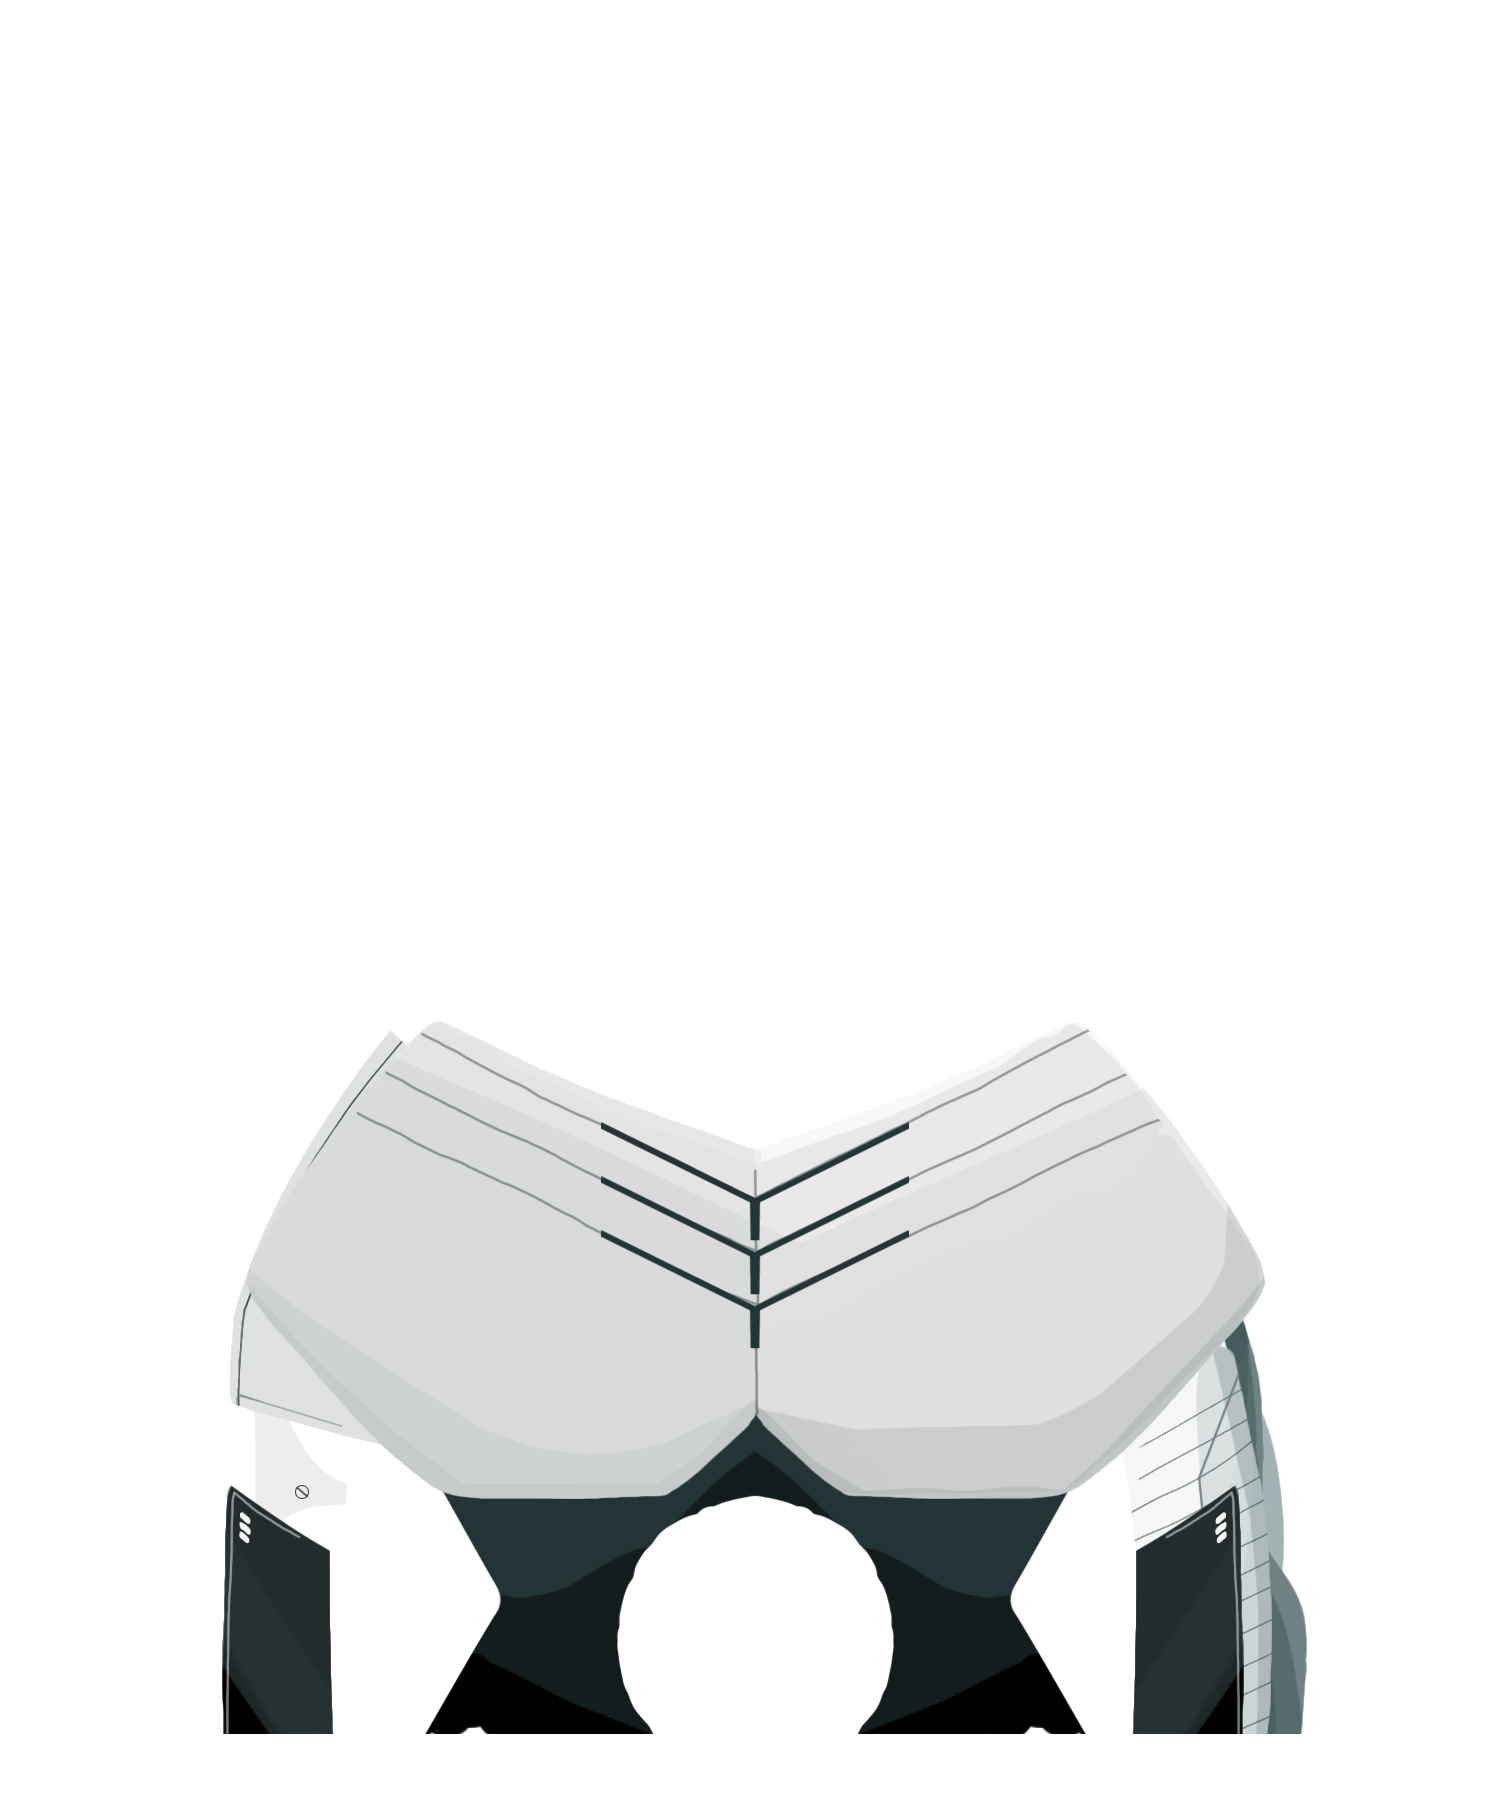
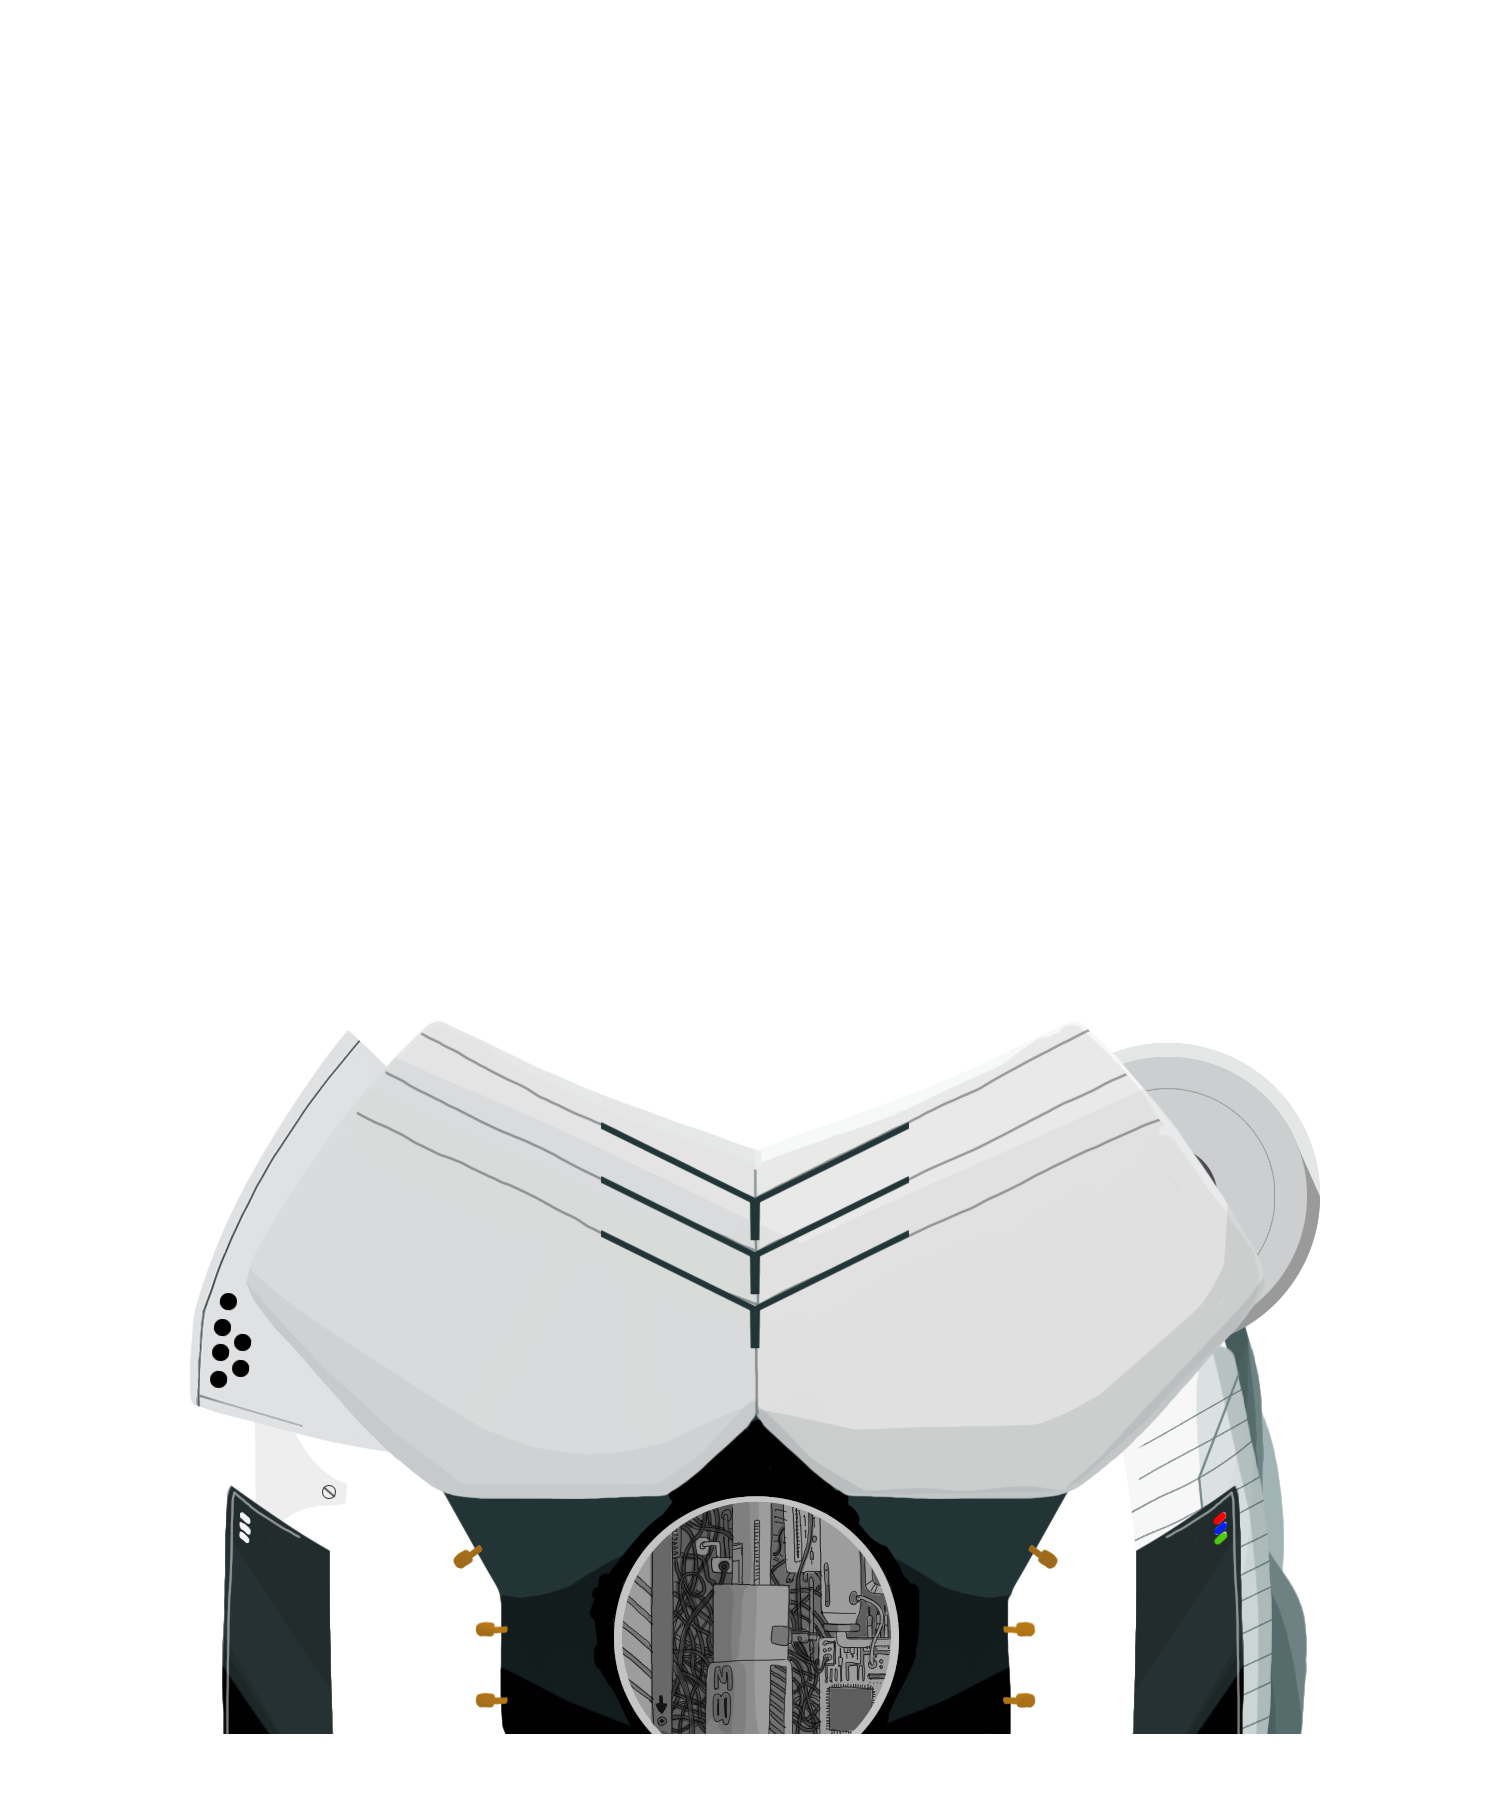
Add shirt and jacket

diff --git a/2422.js b/2422.js
@@ -207,7 +207,10 @@ const losOsosSchema = {
                     name: "Mecha Bear",
                     type: PFP.ASSET_DUAL,
                     level: 850,
-                    assets: [ "./assets/occupation_mecha_bear.png", "./assets/occupation_mecha_bear.png",
+                    tints: ["#be1b00", "#2398ca", "#288b00", "#fbbf1e" ],
+                    assets: [ 
+                        "./assets/occupation_mecha_bear.png",
+                        "./assets/empty.png",
                         { image: "./assets/occupation_mecha_bear_lights.png", tint: true },
                     ],
                 },
@@ -343,11 +346,6 @@ const losOsosSchema = {
                     assets: [ "./assets/occupation_felon.png", "./assets/occupation_felon_back.png" ],
                     chance: 0.6,
                 },
-                {
-                    name: "Jacket",
-                    type: PFP.ASSET_DUAL,
-                    assets: [ "./assets/occupation_fisher1.png", "./assets/occupation_fisher1_back.png" ],
-                },
                 {   
                     name: "Nordic fisher",
                     type: PFP.ASSET_DUAL,
@@ -360,13 +358,60 @@ const losOsosSchema = {
                     chance: 0.5,
                 },
                 {
+                    name: "Shirt and jacket",
+                    type: PFP.ASSET_DUAL,
+                    tints: ["#3fb033", "#d12727", "#1e73a8", "#f5d10a" ],
+                    chance: 0.5,
+                    assets: [ 
+                        { image: "./assets/occupation_citizen1_for_tinting.png", tint: [ "#eeeae4", "#82d0f1", "#444444" ] }, 
+                        { image: "./assets/occupation_citizen1_back.png", tint: "#444444" },
+                        { image: "./assets/occupation_citizen1_buttons.png", tint: false },
+                        "./assets/empty.png",
+
+                        { image: "./assets/occupation_jacket.png", tint: true },
+                        { image: "./assets/occupation_jacket_back.png", tint: true },
+                        { image: "./assets/occupation_jacket_patches.png", tint: ["#9d7a3c" ] },
+                        "./assets/empty.png",
+                        "./assets/occupation_jacket_zip.png",
+                    ],
+                },
+                {
+                    name: "Jacket",
+                    type: PFP.ASSET_DUAL,
+                    tints: ["#3fb033", "#d12727", "#46e3ff", "#f5d10a" ],
+                    chance: 0,
+                    assets: [ 
+                        { image: "./assets/occupation_jacket.png", tint: true },
+                        { image: "./assets/occupation_jacket_back.png", tint: true },
+                        { image: "./assets/occupation_jacket_patches.png", tint: ["#9e7c5e" ] },
+                        "./assets/empty.png",
+                        { image: "./assets/occupation_jacket_thick_stripes.png", tint: ["#111111" ] },
+                        "./assets/empty.png",
+                        "./assets/occupation_jacket_zip.png",
+                    ],
+                },
+                {
                     name: "Shirt",
                     type: PFP.ASSET_DUAL,
-                    chance: 0.7,
+                    chance: 0,
                     assets: [ 
                         { image: "./assets/occupation_citizen1_for_tinting.png", tint: true, }, 
                         { image: "./assets/occupation_citizen1_back.png", tint: true, },
                         { image: "./assets/occupation_citizen1_buttons.png", tint: false, }
+                    ],
+                },
+                {
+                    name: "T-shirt",
+                    type: PFP.ASSET_OPTIONS,
+                    chance: 0,
+                    options: [
+                        {
+                            type: PFP.ASSET_DUAL,
+                            assets: [ 
+                                { image: "./assets/occupation_tshirt_white.png", tint: true }, 
+                                { image: "./assets/occupation_creator_back.png", tint: true },
+                            ],
+                        },
                     ],
                 },
                 {
@@ -400,18 +445,18 @@ const losOsosSchema = {
                     ],
                 },
                 {
-                    name: "OG with Glomularus",
+                    name: "OG t-shirt & Glomularus",
                     type: PFP.ASSET_DUAL,
                     assets: [ 
                         { image: "./assets/occupation_tshirt_white.png", tint: "#111111", }, 
                         { image: "./assets/occupation_creator_back.png", tint: "#111111", }, 
                         { image: "./assets/occupation_tshirt_white_lines.png" },
-                        "./assets/occupation_creator_back.png",
+                        "./assets/occupation_glomularus_back.png",
                         "./assets/occupation_glomularus.png",
                     ],
                 },
                 {
-                    name: "Nirvana shirt",
+                    name: "Nirvana t-shirt",
                     type: PFP.ASSET_OPTIONS,
                     tints: [ "#1f7b99" ],
                     options: [
@@ -436,7 +481,7 @@ const losOsosSchema = {
                     ]
                 },
                 {
-                    name: "Ciphrd shirt",
+                    name: "Ciphrd t-shirt",
                     type: PFP.ASSET_DUAL,
                     tints: [ "#eeeae4" ],
                     assets: [ 
@@ -446,7 +491,7 @@ const losOsosSchema = {
                     ]
                 },
                 {
-                    name: "Art Basel shirt",
+                    name: "Art Basel t-shirt",
                     type: PFP.ASSET_DUAL,
                     assets: [ 
                         { image: "./assets/occupation_tshirt_white.png", tint: "#111111", }, 
@@ -457,20 +502,7 @@ const losOsosSchema = {
                     ]
                 },
                 {
-                    name: "Casual",
-                    type: PFP.ASSET_OPTIONS,
-                    options: [
-                        {
-                            type: PFP.ASSET_DUAL,
-                            assets: [ 
-                                { image: "./assets/occupation_tshirt_white.png", tint: true }, 
-                                { image: "./assets/occupation_creator_back.png", tint: true },
-                            ],
-                        },
-                    ],
-                },
-                {
-                    name: "fx(hash) shirt",
+                    name: "fx(hash) t-shirt",
                     type: PFP.ASSET_DUAL,
                     assets: [ 
                         { image: "./assets/occupation_tshirt_white.png", tint: "#090909", }, 
@@ -481,7 +513,7 @@ const losOsosSchema = {
                     ],
                 },
                 {
-                    name: "The Hill-side shirt",
+                    name: "The Hill-side t-shirt",
                     type: PFP.ASSET_DUAL,
                     assets: [ 
                         { image: "./assets/occupation_tshirt_white.png", tint: "#111111", }, 
@@ -983,7 +1015,7 @@ const losOsosSchema = {
             features: [
                 { 
                     name: "Cybear-vision", 
-                    tints: ["#be1b00", "#0b4185", "#288b00", "#fbbf1e", "#43423d", "#5f3368"],
+                    tints: ["#be1b00", "#2398ca", "#288b00", "#fbbf1e", "#43423d", "#5f3368"],
                     assets: [
                         {
                             image: "./assets/eyewear_mecha_bear_color.png",
@@ -1103,7 +1135,7 @@ const losOsosSchema = {
                         image: "./assets/mouth_mecha_bear.png",
                     }, {
                         image: "./assets/mouth_mecha_bear_tubes.png",
-                        tint: ["#be1b00", "#0b4185", "#288b00", "#fbbf1e", "#43423d", "#5f3368"],
+                        tint: ["#be1b00", "#2398ca", "#288b00", "#fbbf1e", "#43423d", "#5f3368"],
                     }],
                 },
                 { 

diff --git a/pfp.js b/pfp.js
@@ -86,7 +86,7 @@ class PFPFactory {
                     const asset = feature.assets[i];
                     const order = i % 2 ? -1 : 1;
                     let assetLevel =  asset.level || feature.level || category.level;
-                    pfp.addAsset(new PFPImageAsset(feature.name, asset, this.schema.canvas, assetLevel++ * order, this.defineTintColor(asset.tint, feature.tintColor)));
+                    pfp.addAsset(new PFPImageAsset(feature.name, asset, this.schema.canvas, (assetLevel + i) * order, this.defineTintColor(asset.tint, feature.tintColor)));
                 }
             break;
 
